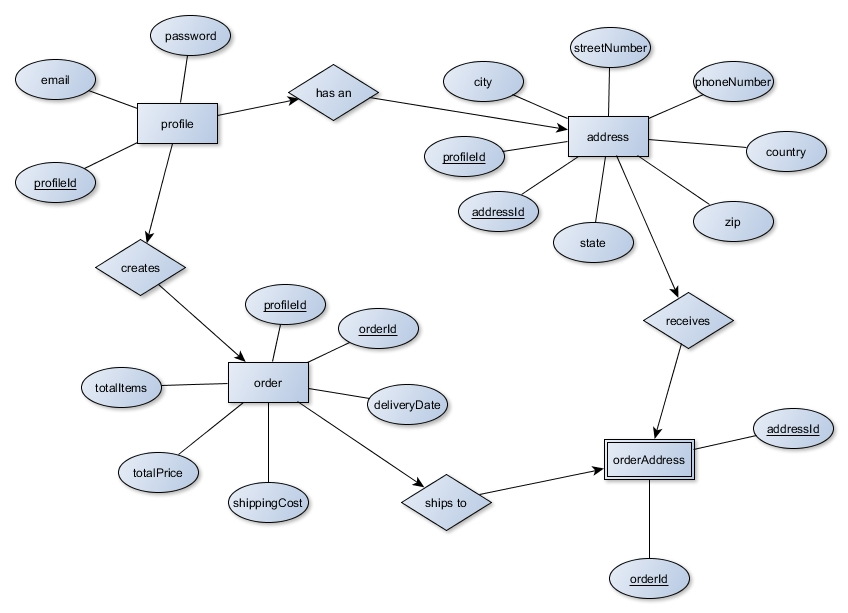
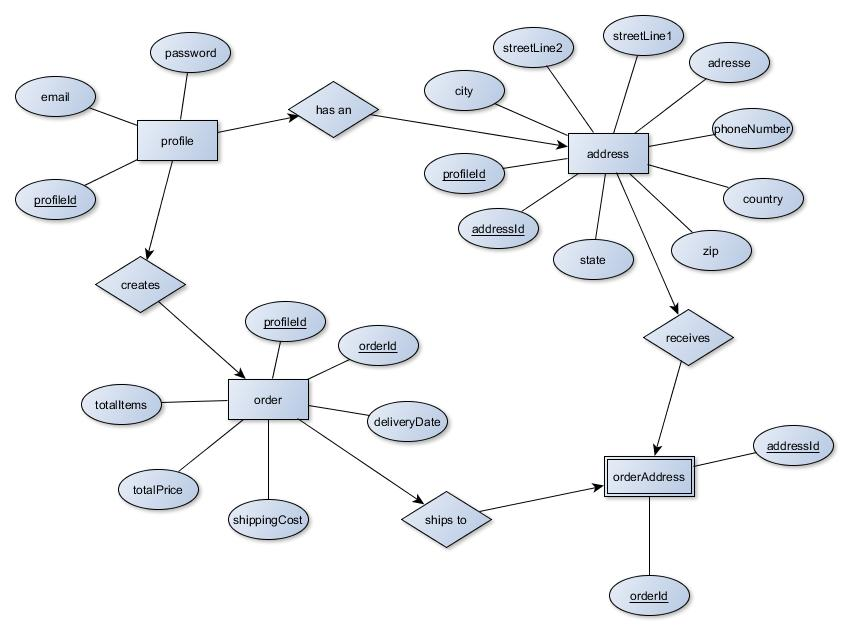
modified sql statements, updated ERD, and added profile.php

diff --git a/php/profile.php b/php/profile.php
@@ -1,0 +1,215 @@
+<?php
+
+/**
+ * Small Cross Section of Amazon's Address Book
+ *
+ * This is a profile class for use with an Amazon account.
+ * 
+ *
+ * @author Christopher Collopy <ccollopy@cnm.edu>
+ **/
+class Profile {
+	/**
+	 * id for this Profile; this is the primary key
+	 * @var int $profileId
+	 **/
+	private $profileId;
+	/**
+	 * the profile's email
+	 * @var string $email
+	 **/
+	private $email;
+	/**
+	 * the profile's passwordHash
+	 * @var string $passwordHash
+	 **/
+	private $passwordHash;
+
+	/**
+	 * constructor for this Profile
+	 *
+	 * @param int $newProfileId id for this Profile
+	 * @param string $newEmail string containing profile's email
+	 * @param string $newPasswordHash string containing profile's passwordHash
+	 * @throws InvalidArgumentException if data types are not valid
+	 * @throws RangeException if data values are out of bounds (e.g., strings too long, negative integers)
+	 **/
+	public function __construct($newProfileId, $newEmail, $newPasswordHash) {
+		try {
+			$this->setProfileId($newProfileId);
+			$this->setEmail($newEmail);
+			$this->setPasswordHash($newPasswordHash);
+		} catch(InvalidArgumentException $invalidArgument) {
+			// rethrow the exception to the caller
+			throw(new InvalidArgumentException($invalidArgument->getMessage(), 0, $invalidArgument));
+		} catch(RangeException $range) {
+			// rethrow the exception to the caller
+			throw(new RangeException($range->getMessage(), 0, $range));
+		}
+	}
+
+	/**
+	 * accessor method for profile id
+	 *
+	 * @return int value of profile id
+	 **/
+	public function getProfileId() {
+		return ($this->profileId);
+	}
+
+	/**
+	 * mutator method for profile id
+	 *
+	 * @param int $newProfileId new value of profile id
+	 * @throws InvalidArgumentException if $newProfileId is not an integer
+	 * @throws RangeException if $newProfileId is not positive
+	 **/
+	public function setProfileId($newProfileId) {
+		// verify the profile id is valid
+		$newProfileId = filter_var($newProfileId, FILTER_VALIDATE_INT);
+		if($newProfileId === false) {
+			throw(new InvalidArgumentException("profile id is not a valid integer"));
+		}
+
+		// verify the profile id is positive
+		if($newProfileId <= 0) {
+			throw(new RangeException("profile id is not positive"));
+		}
+
+		// convert and store the profileId
+		$this->profileId = intval($newProfileId);
+	}
+
+	/**
+	 * accessor method for email
+	 *
+	 * @return string value of email
+	 **/
+	public function getEmail() {
+		return ($this->email);
+	}
+
+	/**
+	 * mutator method for email
+	 *
+	 * @param string $newEmail new value of email
+	 * @throws InvalidArgumentException if $newEmail is empty or not a string
+	 * @throws RangeException if $newEmail is > 140 characters
+	 **/
+	public function setEmail($newEmail) {
+		// verify the email content is a string
+		$newEmail = trim($newEmail);
+		$newEmail = filter_var($newEmail, FILTER_SANITIZE_EMAIL);
+		if(empty($newEmail) === true) {
+			throw(new InvalidArgumentException("email is empty or not a string"));
+		}
+
+		// verify the email will fit in the database
+		if(strlen($newEmail) > 128) {
+			throw(new RangeException("email too large"));
+		}
+
+		// store the email
+		$this->email = $newEmail;
+	}
+
+	/**
+	 * accessor method for passwordHash
+	 *
+	 * @return string value of passwordHash
+	 **/
+	public function getPasswordHash() {
+		return ($this->passwordHash);
+	}
+
+	/**
+	 * mutator method for passwordHash
+	 *
+	 * @param string $passwordHash new value of passwordHash
+	 * @throws UnexpectedValueException if $newPasswordHash is not a hexadecimal string
+	 * @throws RangeException if $newPasswordHash is not exactly equal to 128 characters
+	 **/
+	public function setPasswordHash($newPasswordHash) {
+		// verify the passwordHash content is a hexadecimal string
+		if(!ctype_xdigit($newPasswordHash)) {
+			throw(new UnexpectedValueException("passwordHash is not a hexadecimal string"));
+		}
+
+		// verify the passwordHash is the right size
+		if(strlen($newPasswordHash) > 128 || strlen($newPasswordHash) < 128) {
+			throw(new RangeException("passwordHash is not correct size"));
+		}
+
+		// store the passwordHash
+		$this->passwordHash = $newPasswordHash;
+	}
+
+	/************************************* mySQL *************************************************************/
+
+	/**
+	 * inserts this Profile into mySQL
+	 *
+	 * @param PDO $pdo pointer to PDO connection, by reference
+	 * @throws PDOException when mySQL related errors occur
+	 **//*
+	public function insert(PDO &$pdo) {
+		// enforce the profileId is null (i.e., don't insert a profile that already exists)
+		if($this->profileId !== null) {
+			throw(new PDOException("not a new profile"));
+		}
+
+		// create query template
+		$query = "INSERT INTO profile(profileId, email, passwordHash) VALUES(:profileId, :email, :passwordHash)";
+		$statement = $pdo->prepare($query);
+
+		// bind the member variables to the place holders in the template
+		$parameters = array("profileId" => $this->profileId, "email" => $this->email, "passwordHash" => passwordHash);
+		$statement->execute($parameters);
+
+		// update the null profileId with what mySQL just gave us
+		$this->profileId = intval($pdo->lastInsertId());
+	}
+
+
+	*//**
+	 * deletes this Profile from mySQL
+	 *
+	 * @param PDO $pdo pointer to PDO connection, by reference
+	 * @throws PDOException when mySQL related errors occur
+	 **//*
+	public function delete(PDO &$pdo) {
+		// enforce the profileId is not null (i.e., don't delete a profile that hasn't been inserted)
+		if($this->profileId === null) {
+			throw(new PDOException("unable to delete a profile that does not exist"));
+		}
+
+		// create query template
+		$query = "DELETE FROM profile WHERE profileId = :profileId";
+		$statement = $pdo->prepare($query);
+
+		// bind the member variables to the place holder in the template
+		$parameters = array("profileId" => $this->profileId);
+		$statement->execute($parameters);
+	}
+
+	*//**
+	 * updates this Profile in mySQL
+	 *
+	 * @param PDO $pdo pointer to PDO connection, by reference
+	 * @throws PDOException when mySQL related errors occur
+	 **//*
+	public function update(PDO &$pdo) {
+		// enforce the profileId is not null (i.e., don't update a profile that hasn't been inserted)
+		if($this->profileId === null) {
+			throw(new PDOException("unable to update a profile that does not exist"));
+		}
+
+		// create query template
+		$query = "UPDATE profile SET email = :email, passwordHash = :passwordHash WHERE profileId = :profileId";
+		$statement = $pdo->prepare($query);
+
+		// bind the member variables to the place holders in the template
+		$parameters = array("profileId" => $this->profileId, "email" => $this->email, "passwordHash" => $this->passwordHash);
+		$statement->execute($parameters);
+	}*/
+}

diff --git a/index.php b/index.php
@@ -59,7 +59,16 @@
 						<li>User then clicks "Check Out" to finalize their purchases.</li>
 						<li>User is prompted for a shipping address to send products to.</li>
 						<li>System populates order with a default shipping and billing address.</li>
-						<li>User chooses to use default values.</li>
+						<li>
+							<ol>
+								<li>User chooses to use default values.</li>
+								<li>User chooses to use an address from his address book.</li>
+								<ol>
+									<li>User clicks the change button on his address</li>
+									<li>User clicks "ship to address" on one of his additional addresses</li>
+								</ol>
+							</ol>
+						</li>
 					</ol>
 				</div>
 				<div class="erd">
@@ -84,7 +93,7 @@ CREATE TABLE profile (
 
 CREATE TABLE address (
 	addressId INT UNSIGNED AUTO_INCREMENT NOT NULL,
-	profileId INT UNSIGNED AUTO_INCREMENT NOT NULL,
+	profileId INT UNSIGNED NOT NULL,
 	streetNumber VARCHAR(65) NOT NULL,
 	city VARCHAR(32) NOT NULL,
 	state VARCHAR(2) NOT NULL,
@@ -97,7 +106,7 @@ CREATE TABLE address (
 
 CREATE TABLE purchaseOrder (
 	orderId INT UNSIGNED AUTO_INCREMENT NOT NULL,
-	profileId INT UNSIGNED AUTO_INCREMENT NOT NULL,
+	profileId INT UNSIGNED NOT NULL,
 	totalItems SMALLINT UNSIGNED NOT NULL,
 	totalPrice DOUBLE NOT NULL,
 	shippingCost DOUBLE NOT NULL,
